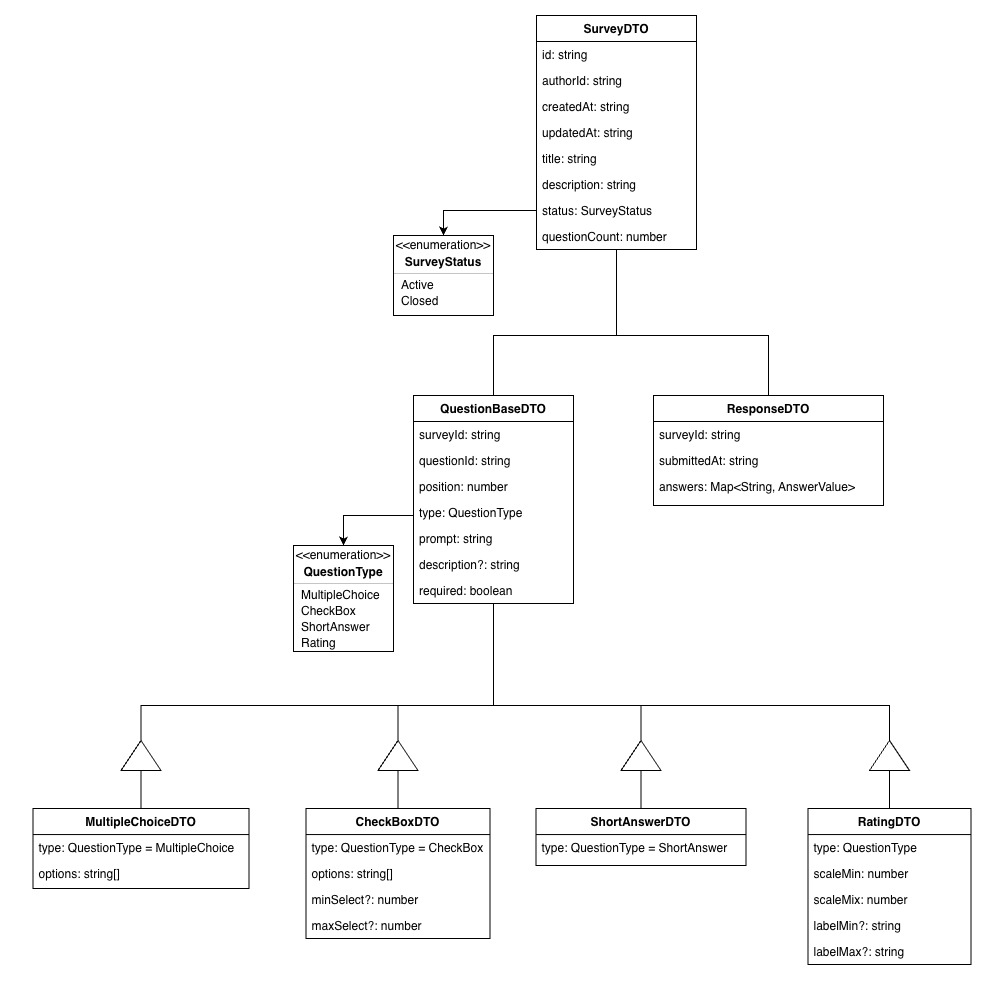
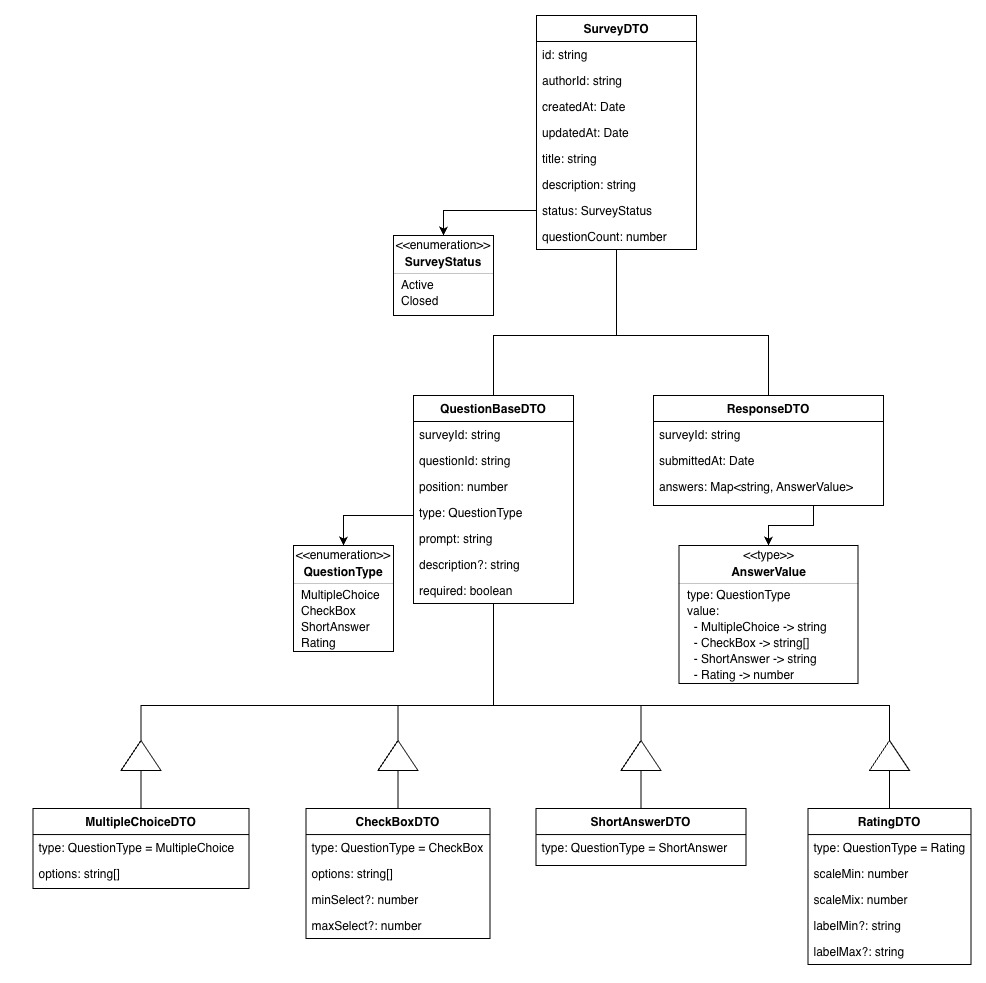
Update DTO date types, comments, and UML diagram
Changed DTO date fields to use Date, added some comments, and updated the README UML diagram to reflect the new date types and the type field in RatingDTO.

diff --git a/shared/src/models/dtos/types/QuestionDTO.ts b/shared/src/models/dtos/types/QuestionDTO.ts
@@ -1,15 +1,14 @@
 import {QuestionType} from "../enums/QuestionType";
 
-
 // Defines the base interface for every question type
 export interface QuestionBaseDTO {
     surveyId: string;   // References a survey using the surveyId
-    questionId: string;
+    questionId: string;  // Q# -> q1, q2, eq3, etc....
     position: number;   // from 0, 1, 2, ..., n-1
     type: QuestionType;
-    prompt: string;
-    description?: string;
-    required: boolean;
+    prompt: string;  // Actual question prompt
+    description?: string;  // Optional, can be used to give extra details for each question
+    required: boolean;  // true for required, false for optional
 }
 
 // Example collection of Question Objects
@@ -21,7 +20,7 @@ export interface QuestionBaseDTO {
     //         position: 0,
     //         type: QuestionType.MultipleChoice,
     //         prompt: "How did you hear about this event?",
-    //         description: "Choose one option.",
+    //         description: "Choose one option",
     //         required: true,
     //         options: ["Instagram", "Facebook", "Friend", "Other"]
     //     },
@@ -76,7 +75,7 @@ export interface MultipleChoiceDTO extends QuestionBaseDTO {
     //     position: 0,
     //     type: QuestionType.MultipleChoice,
     //     prompt: "How did you hear about this event?",
-    //     description: "Choose one option.",
+    //     description: "Choose one option",
     //     required: true,
     //     options: ["Instagram", "Facebook", "Friend", "Other"]
     // };
@@ -98,7 +97,7 @@ export interface CheckBoxDTO extends QuestionBaseDTO {
     //     position: 1,
     //     type: QuestionType.CheckBox,
     //     prompt: "What did you like about the event?",
-    //     description: "You may select more than one option.",
+    //     description: "You may select between 1 and 3 options",
     //     required: false,
     //     options: ["Organization", "Food", "Music", "Venue"],
     //     minSelect: 1,
@@ -150,7 +149,6 @@ export interface RatingDTO extends QuestionBaseDTO {
     //     labelMin: "Poor",
     //     labelMax: "Excellent"
     // };
-
 
 
 export type QuestionDTO = | MultipleChoiceDTO | CheckBoxDTO | ShortAnswerDTO | RatingDTO;

diff --git a/shared/src/models/dtos/types/ResponseDTO.ts b/shared/src/models/dtos/types/ResponseDTO.ts
@@ -17,8 +17,8 @@ export type AnswerValue =
 
 export interface ResponseDTO {
     surveyId: string;   // References a survey using the surveyId
-    submittedAt: string;
-    answers: Record<string, AnswerValue>; // questionId -> AnswerValue
+    submittedAt: Date;
+    answers: Record<string, AnswerValue>; // questionId -> AnswerValue   ( Q1, AnswerValue Object )
 }
 
 // Example of Response Object (1 object for the whole Survey)

diff --git a/shared/src/models/dtos/types/SurveyDTO.ts b/shared/src/models/dtos/types/SurveyDTO.ts
@@ -4,8 +4,8 @@ import {SurveyStatus} from "../enums/SurveyStatus";
 export interface SurveyDTO {
     id: string;
     authorId: string;
-    createdAt: string;
-    updatedAt: string;
+    createdAt: Date;
+    updatedAt: Date;
     title: string;
     description: string;
     status: SurveyStatus;
